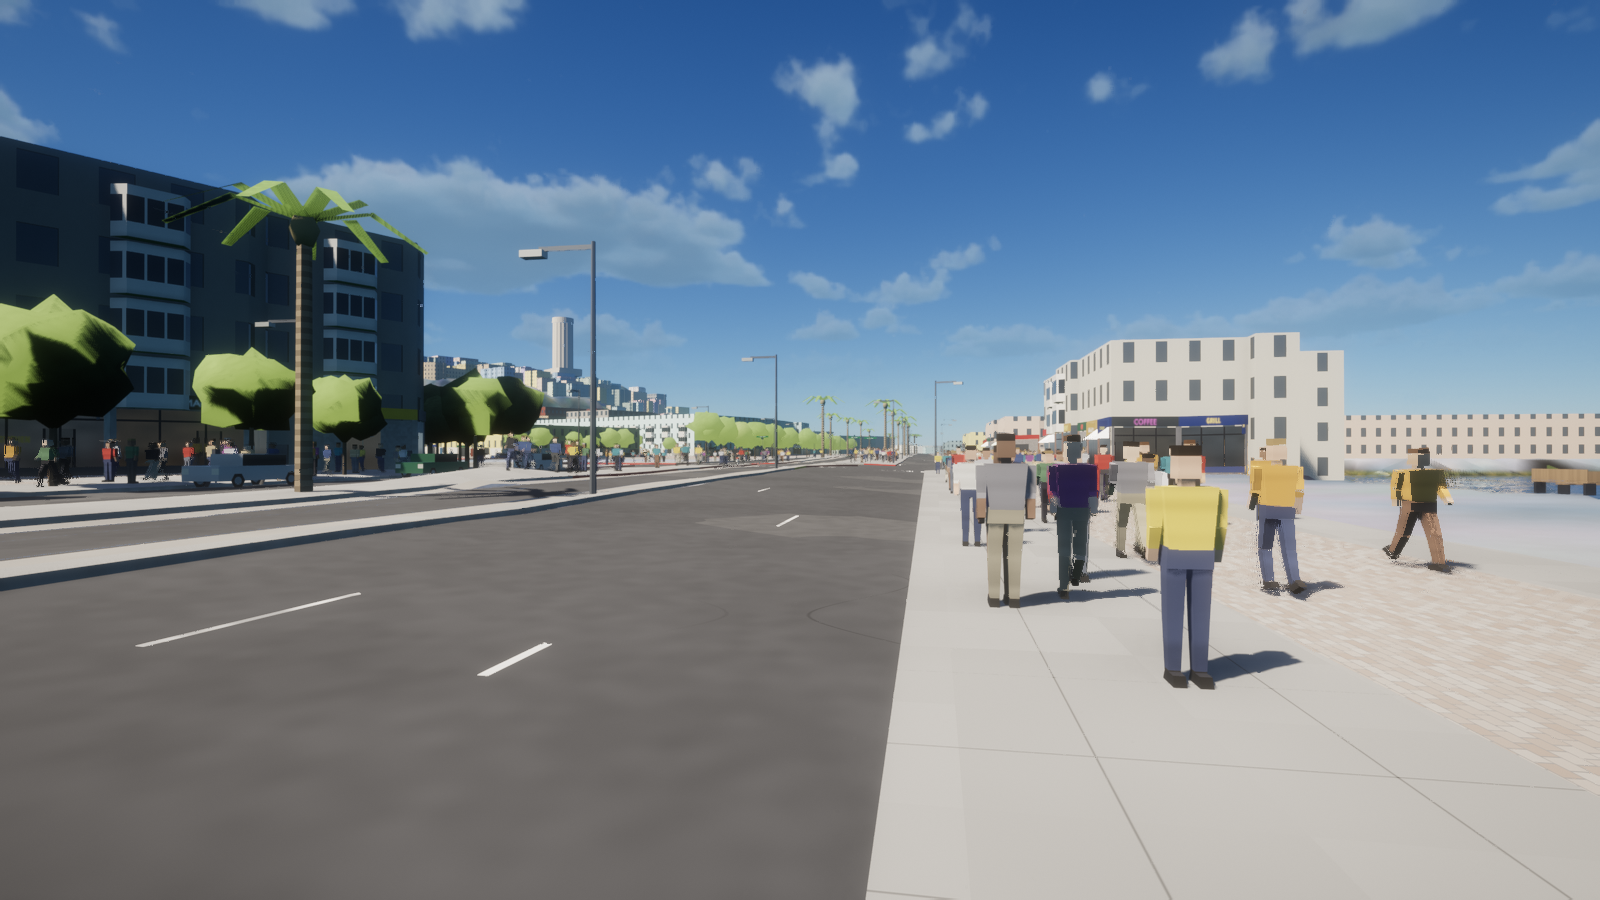
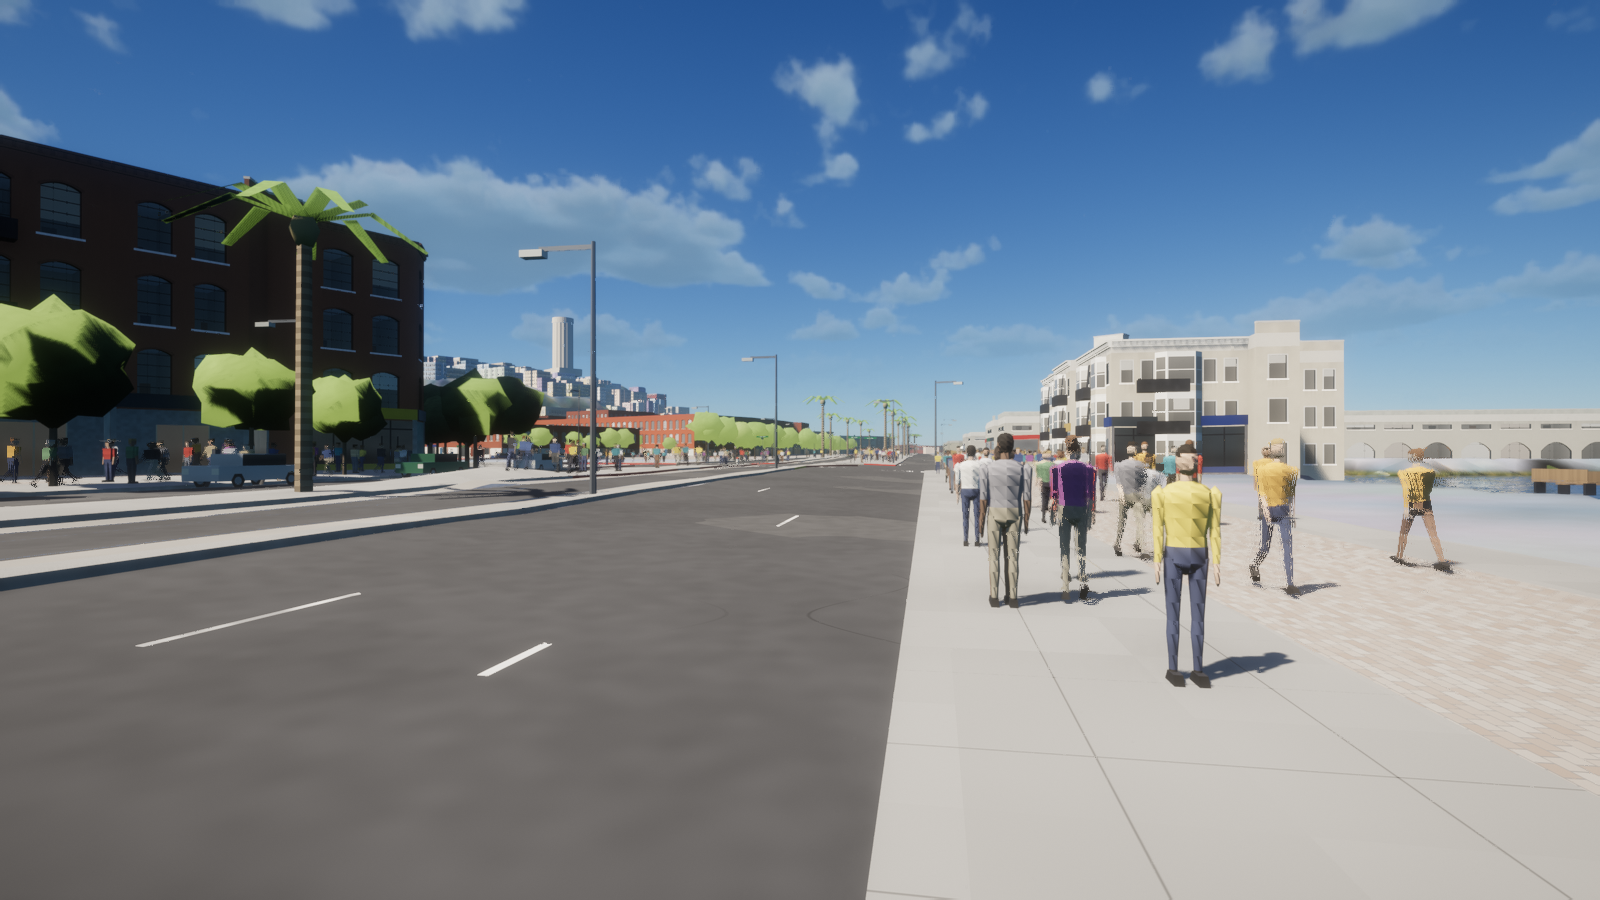
run3: DONE — all required gates green in one clean verify.sh on the M4 (G21 advisory flagged)
Claude-Session: https://claude.ai/code/session_01MjaZatCRce6fPSRCMJCBe9

Changed region(s): [[0.5625, 0.3422, 1.0, 0.7778], [0.0, 0.1556, 0.5, 0.56]]

diff --git a/STATE.md b/STATE.md
@@ -26,12 +26,12 @@
 | G18 Depth elements | PASS | 2026-10-11 | near the path: flat roofs dressed 100 % (frozen 98 %), pre-war faces with fire escapes 83.3 % (frozen 81 %); slice: Victorian faces with bays 97.7 % (frozen 95 %); 3/3 negatives |
 | G18b SF look | PASS | 2026-10-11 | no HK-only detail types; balconies only in Chinatown; 17,681 Victorian lots all with bays; 4,471 adjacent Victorian pairs, none sharing a colour; tops = run 2; 4/4 negatives |
 | G19 Materials + windows | PASS | 2026-10-11 | no facade textures (all by code); 4 material families on the path (stucco, brick, siding, ashlar); lit at night residential 39.9 %, office 45.7 %; 4/4 negatives |
-| G20 Facade budget | PENDING (M4) | 2026-10-11 | near band ≤ 61,432 triangles along the path (cap frozen 76,790); fixed views with facades (lavapipe count): +7 draws / +10.8k triangles at worst (embarcadero-street 74 draws, 1,797,599 triangles; caps 126 / 1,953,488); the fps / memory half runs G13 on the M4 — not measurable in the cloud workspace (no GPU) |
-| G21 Facade look (advisory) | PARTIAL | 2026-10-11 | software renders (lavapipe, 960×540, crowd off) of telegraph-hill, telegraph-hill-close, jackson-square, embarcadero-pier7 × midday / golden / night + run-2 before pairs (midday, night) in shots/facades/; glass and car speckle is software-render noise; full set and night exposure to be judged on the M4 |
+| G20 Facade budget | PASS | 2026-10-11 | M4, idle, 1080p low: street path 55.6 fps p95 / 795 MB, G5 path with street 46.8 fps p95 / 807 MB (floor 40, cap 862), no swap; near band ≤ 61,432 triangles (cap 76,790); draws and triangles inside run-1 caps |
+| G21 Facade look (advisory) | FAIL (advisory) | 2026-10-11 | M4 shots in shots/facades/ for human review; flagged as close to run 2: embarcadero-pier7 midday + golden, sausalito-bridgeway golden + night (difference < 3) |
 
 ## Current
 
-**Run 3 (facades): built on branch `facades`, not merged.** G15–G19 (incl. G18b) green with negatives. Open: G20's fps / GPU-memory half and a full `./verify.sh` need the M4 (`./verify.sh g13 g20 g21`, then the full run); G21 shots partly rendered in software (shots/facades/).
+**Run 3 (facades): DONE 2026-10-11.** G0–G5, G7, G8–G13 (incl. G12b) and G15–G20 (incl. G18b) green in one clean `./verify.sh` run on the M4, with storefronts rebaked as real businesses (D94: 2,677 businesses, 2,677 signs); see `DONE-run3`. G21 advisory flags four wide shots as close to run 2 (Pier 7, Sausalito) for human review.
 
 **Run 2 (street level): DONE 2026-10-07.** G0–G5, G7 and G8–G13 (incl. G12b) green in one clean `./verify.sh` run
 (G6, G14 advisory green); see `DONE-run2`. Decisions D45–D77; branch `street-level` → `main`.
